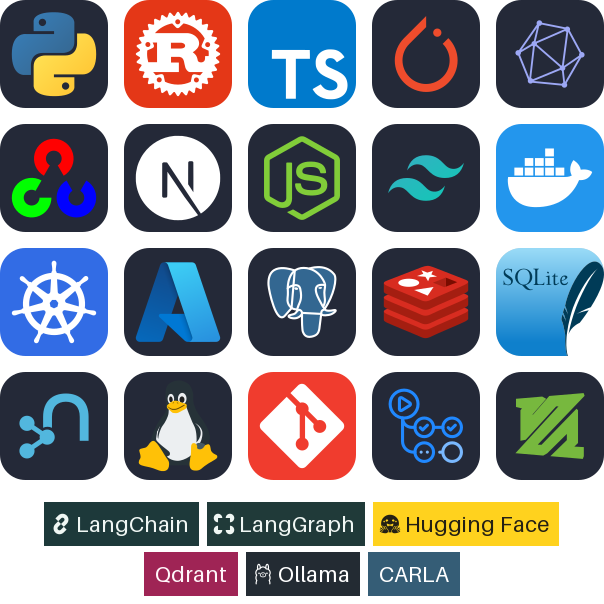
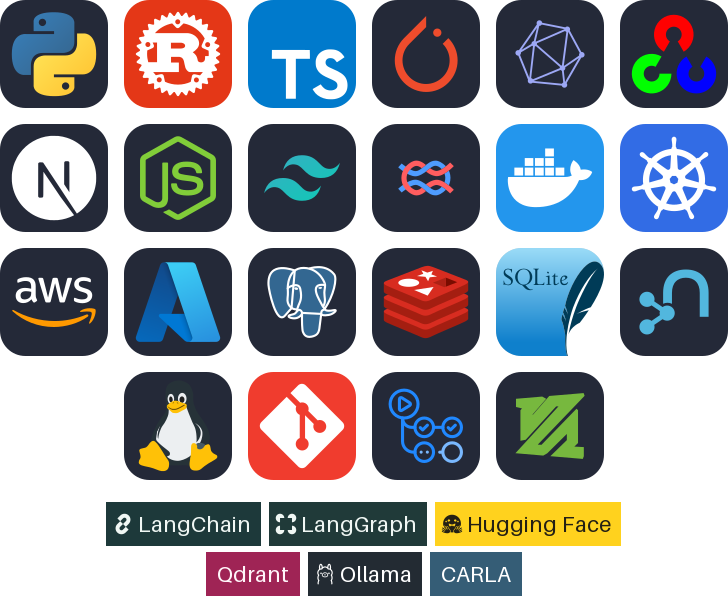
Add experience, credentials, and contact links to profile

diff --git a/tools/build_stack.py b/tools/build_stack.py
@@ -1,5 +1,6 @@
 """Build the repository-hosted stack grid and contact badges."""
 from io import BytesIO
+from math import ceil
 from pathlib import Path
 import re
 import subprocess
@@ -10,7 +11,7 @@ ICONS = TOOLS / 'stack-icons'
 ASSETS = TOOLS.parent / 'assets'
 STACK = (
     'python', 'rust', 'typescript', 'pytorch', 'onnx', 'opencv', 'nextdotjs',
-    'nodedotjs', 'tailwindcss', 'docker', 'kubernetes', 'azure', 'postgresql',
+    'nodedotjs', 'tailwindcss', 'langfuse', 'docker', 'kubernetes', 'aws', 'azure', 'postgresql',
     'redis', 'sqlite', 'neo4j', 'linux', 'git', 'githubactions', 'ffmpeg',
 )
 BADGES = (
@@ -61,36 +62,42 @@ def badges(image, row, y, font):
 
 
 def grid(columns, name, tiles):
-    rows = len(STACK) // columns
-    badge_rows = (BADGES,) if columns == 10 else (BADGES[:3], BADGES[3:])
+    rows = ceil(len(tiles) / columns)
+    badge_rows = (BADGES,) if columns == 11 else (BADGES[:3], BADGES[3:])
     width = (columns * TILE + (columns - 1) * GAP) * SCALE
     tiles_height = (rows * TILE + (rows - 1) * GAP) * SCALE
     image = Image.new('RGBA', (width, tiles_height + 24 + len(badge_rows) * 50))
     for index, tile in enumerate(tiles):
         row, column = divmod(index, columns)
-        image.alpha_composite(tile, (column * (TILE + GAP) * SCALE, row * (TILE + GAP) * SCALE))
+        row_count = min(columns, len(tiles) - row * columns)
+        inset = (columns - row_count) * (TILE + GAP) * SCALE // 2
+        image.alpha_composite(tile, (inset + column * (TILE + GAP) * SCALE, row * (TILE + GAP) * SCALE))
     font = ImageFont.load_default(size=22)
     for index, row in enumerate(badge_rows):
         badges(image, row, tiles_height + 22 + index * 50, font)
     image.save(ASSETS / name, optimize=True)
 
 
-def contact(name, label, width, color, icon=''):
+def badge(name, label, width, color, icon='', tracking=2):
     center = (width + (16 if icon else 0)) / 2
     icon_markup = f'  {icon}\n' if icon else ''
     svg = f'''<svg xmlns="http://www.w3.org/2000/svg" width="{width}" height="30" viewBox="0 0 {width} 30">
   <title>{label}</title>
   <path fill="{color}" d="M0 0h{width}v30H0z"/>
-{icon_markup}  <text x="{center}" y="19" text-anchor="middle" fill="#fff" font-family="Arial, sans-serif" font-size="11" font-weight="700" letter-spacing="2">{label}</text>
+{icon_markup}  <text x="{center}" y="19" text-anchor="middle" fill="#fff" font-family="Arial, sans-serif" font-size="11" font-weight="700" letter-spacing="{tracking}">{label}</text>
 </svg>
 '''
-    (ASSETS / f'contact-{name}.svg').write_text(svg)
+    (ASSETS / f'{name}.svg').write_text(svg)
 
 
 if __name__ == '__main__':
     tiles = [rasterize(slug, TILE * SCALE) for slug in STACK]
-    grid(10, 'tech-stack.png', tiles)
-    grid(5, 'tech-stack-mobile.png', tiles)
-    contact('linkedin', 'LINKEDIN', 100, '#0a66c2')
-    contact('email', 'EMAIL', 96, '#bd3d2a',
-            '<path d="M11 11h13v9H11z M11 11l6.5 5 6.5-5" fill="none" stroke="#fff" stroke-width="1.5" stroke-linejoin="round"/>')
+    grid(11, 'tech-stack.png', tiles)
+    grid(6, 'tech-stack-mobile.png', tiles)
+    badge('contact-linkedin', 'LINKEDIN', 100, '#0a66c2')
+    badge('contact-email', 'EMAIL', 96, '#bd3d2a',
+          '<path d="M11 11h13v9H11z M11 11l6.5 5 6.5-5" fill="none" stroke="#fff" stroke-width="1.5" stroke-linejoin="round"/>')
+    badge('contact-repositories', 'REPOSITORIES', 142, '#374a3c')
+    badge('cert-aws-architect', 'AWS SOLUTIONS ARCHITECT ASSOCIATE', 248, '#845016', tracking=.35)
+    badge('cert-azure-ai', 'AZURE AI ENGINEER ASSOCIATE', 204, '#185480', tracking=.35)
+    badge('cert-azure-data', 'AZURE DATA FUNDAMENTALS', 185, '#185480', tracking=.35)

diff --git a/tools/build_assets.py b/tools/build_assets.py
@@ -140,8 +140,6 @@ def hero(mobile=False):
     panel(draw,20,20,w-40,bottom-20)
     hazard(draw,21,21,w-42,7)
     text(draw,(46,43),'JAYACHARAN R',15 if mobile else 13,YELLOW,True,True)
-    if not mobile:
-        text(draw,(634,44),'PERSONAL SYSTEMS / SELECTED WORK',10,MUTE,mono=True)
     line(draw,[(46,78),(right-26,78)],LINE)
     for i,label in enumerate(('Be kind.','Stay curious.')):
         text(draw,(46,100+i*(64 if mobile else 76)),label,53 if mobile else 67,WHITE,True)
@@ -157,7 +155,7 @@ def hero(mobile=False):
     line(draw,[(trace_left,baseline),(trace_right,baseline)],'#344137')
     text(draw,(trace_left,top+10),'OSCILLATOR',12 if mobile else 8,MUTE,mono=True)
     frames=[]
-    name='atomic-header-mobile' if mobile else 'atomic-header'
+    name='atomic-header-mobile' if mobile else 'atomic-header-desktop'
     for n in range(60):
         image=base.copy()
         frame=ImageDraw.Draw(image)

diff --git a/README.md b/README.md
@@ -1,8 +1,8 @@
 <picture>
   <source media="(prefers-reduced-motion: reduce) and (max-width: 600px)" srcset="assets/atomic-header-mobile-still.png">
-  <source media="(prefers-reduced-motion: reduce)" srcset="assets/atomic-header-still.png">
+  <source media="(prefers-reduced-motion: reduce)" srcset="assets/atomic-header-desktop-still.png">
   <source media="(max-width: 600px)" srcset="assets/atomic-header-mobile.gif">
-  <img src="assets/atomic-header.gif" width="100%" alt="Jayacharan R — Be kind. Stay curious. Retrieval, cloud, and world models.">
+  <img src="assets/atomic-header-desktop.gif" width="100%" alt="Jayacharan R — Be kind. Stay curious. Retrieval, cloud, and world models.">
 </picture>
 
 <br>
@@ -11,9 +11,9 @@ I’m **Jayacharan**. I build across AI, retrieval, and cloud infrastructure, wi
 
 <p>
   <a href="https://www.linkedin.com/in/jayacharan-r/"><img src="assets/contact-linkedin.svg" width="100" height="30" alt="LinkedIn"></a>
+  <a href="mailto:charan12001200@gmail.com"><img src="assets/contact-email.svg" width="96" height="30" alt="Email"></a>
+  <a href="https://github.com/JayacharanR?tab=repositories"><img src="assets/contact-repositories.svg" width="142" height="30" alt="Explore my repositories"></a>
 </p>
-
-[Explore my repositories ↗](https://github.com/JayacharanR?tab=repositories)
 
 ### Selected builds
 
@@ -67,6 +67,11 @@ I’m **Jayacharan**. I build across AI, retrieval, and cloud infrastructure, wi
 
 </details>
 
+### Experience
+
+- **GenAI Intern · Tata Consultancy Services** (Jun–Jul 2026) — Worked on RAG search, prompt-injection guardrails, and Langfuse tracing.
+- **SAP Analytics Cloud Intern · Blueprint Technologies** (May–Jul 2025) — Built SAP Analytics Cloud dashboards and predictive models.
+
 ### What connects the work
 
 **Useful intelligence needs good systems around it.** That means fresh evidence for retrieval, explicit constraints for scheduling, reversible operations for personal data, and honest evaluation for learned policies.
@@ -76,8 +81,16 @@ I’m **Jayacharan**. I build across AI, retrieval, and cloud infrastructure, wi
 <p align="center">
   <picture>
     <source media="(max-width: 600px)" srcset="assets/tech-stack-mobile.png">
-    <img src="assets/tech-stack.png" width="612" alt="Python, Rust, TypeScript, PyTorch, ONNX, OpenCV, Next.js, Node.js, Tailwind CSS, Docker, Kubernetes, Azure, PostgreSQL, Redis, SQLite, Neo4j, Linux, Git, GitHub Actions, FFmpeg, LangChain, LangGraph, Hugging Face, Qdrant, Ollama, and CARLA">
+    <img src="assets/tech-stack.png" width="674" alt="Python, Rust, TypeScript, PyTorch, ONNX, OpenCV, Next.js, Node.js, Tailwind CSS, Langfuse, Docker, Kubernetes, AWS, Azure, PostgreSQL, Redis, SQLite, Neo4j, Linux, Git, GitHub Actions, FFmpeg, LangChain, LangGraph, Hugging Face, Qdrant, Ollama, and CARLA">
   </picture>
+</p>
+
+<h3 align="center">Certifications</h3>
+
+<p align="center">
+  <a href="https://www.credly.com/badges/8b2899fa-690d-43d3-9dfb-91a6b85e021f/public_url"><img src="assets/cert-aws-architect.svg" width="248" height="30" alt="AWS Certified Solutions Architect – Associate"></a>
+  <a href="https://learn.microsoft.com/api/credentials/share/en-us/JayacharanR-7249/B876E2612E8DCA57?sharingId=A6C2B44CC1F755E7"><img src="assets/cert-azure-ai.svg" width="204" height="30" alt="Microsoft Certified: Azure AI Engineer Associate"></a>
+  <a href="https://www.credly.com/badges/cabb3dd2-fe21-4440-ac8e-785dcd4c8be0/public_url"><img src="assets/cert-azure-data.svg" width="185" height="30" alt="Microsoft Certified: Azure Data Fundamentals"></a>
 </p>
 
 ---

diff --git a/tools/README.md b/tools/README.md
@@ -14,6 +14,6 @@ Use Python 3.11+ and install `tools/requirements.txt` in a virtual environment. 
 
 The generator uses Pillow and defaults to DejaVu Sans / DejaVu Sans Mono. Set `PROFILE_FONT` and `PROFILE_MONO_FONT` to local font-file paths to choose the typography. The published artwork uses Google Sans Flex and JetBrains Mono. Fonts are rendered into the assets and do not need to be installed by visitors.
 
-Run `python tools/build_stack.py` with Pillow and `rsvg-convert` installed to regenerate the tech grid and contact badges. The [pinned icon sources](stack-icons/sources.tsv) come from [Skill Icons](https://github.com/tandpfun/skill-icons) and [Simple Icons](https://github.com/simple-icons/simple-icons). Their notices are in `tools/stack-icons/`.
+Run `python tools/build_stack.py` with Pillow and `rsvg-convert` installed to regenerate the tech grid, contact buttons, and certification badges. The [pinned icon sources](stack-icons/sources.tsv) come from [Skill Icons](https://github.com/tandpfun/skill-icons), [Simple Icons](https://github.com/simple-icons/simple-icons), and [Langfuse](https://github.com/langfuse/langfuse). Their notices are in `tools/stack-icons/`.
 
 All project descriptions are based on the linked repositories. The motion is decorative, not a live activity feed or a recording of project behavior.
